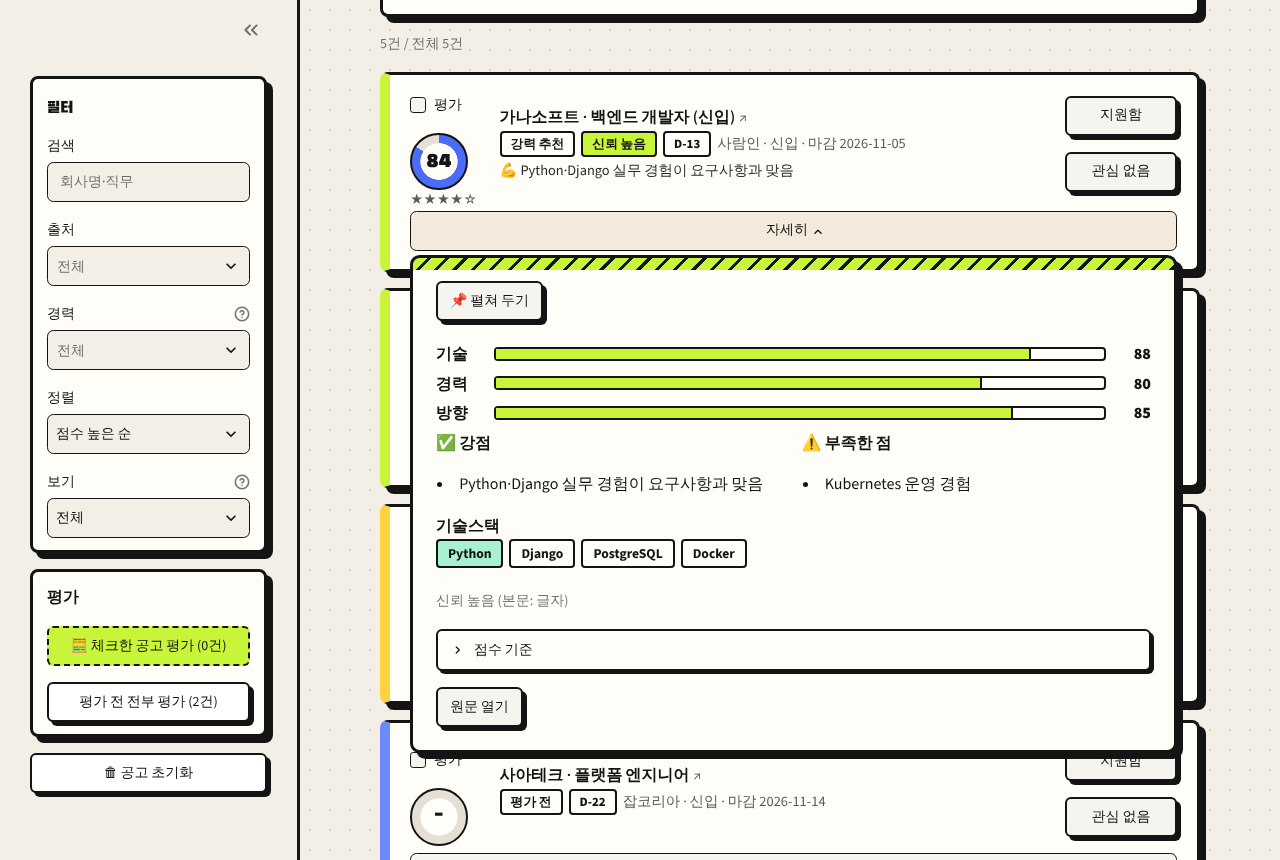
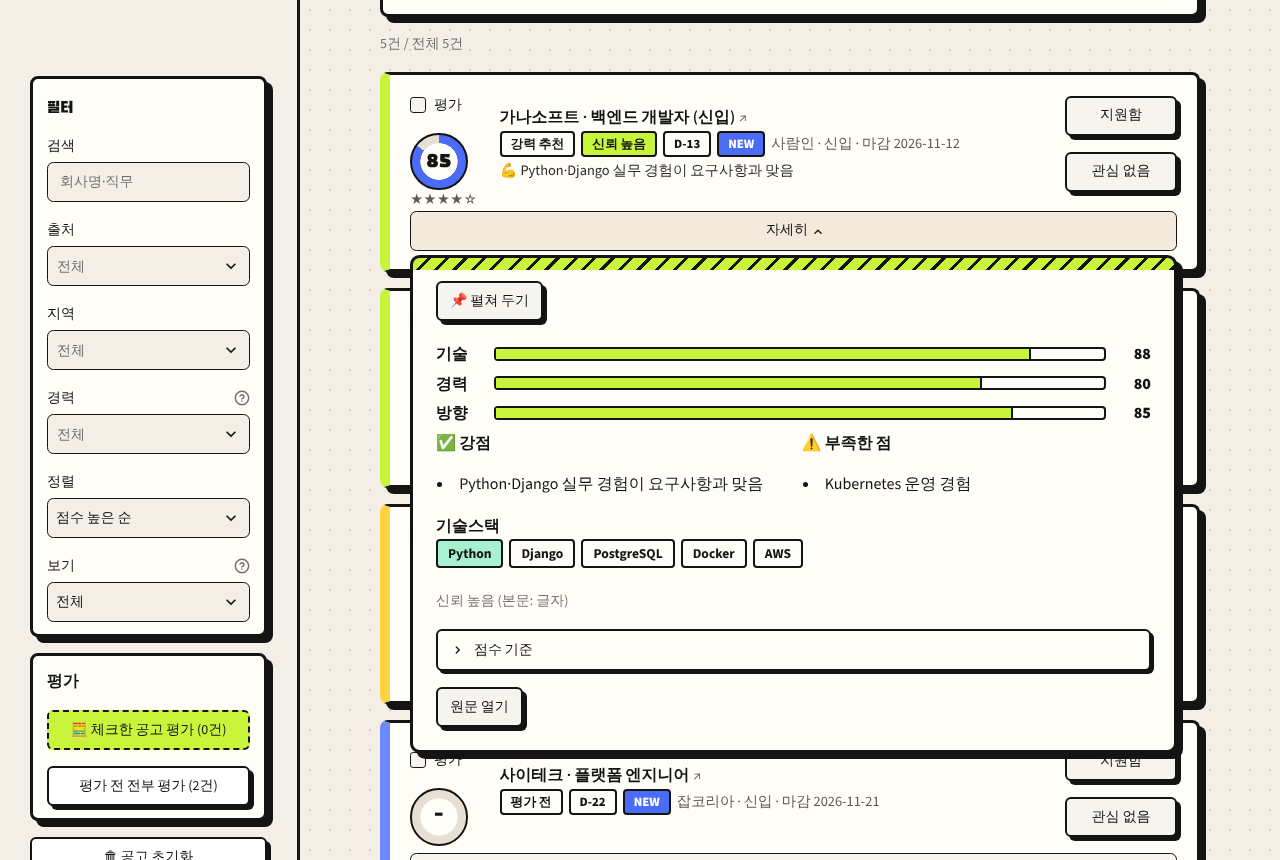
docs: README v0.7.5–v0.7.6 반영, 화면 캡처 교체
지역 필터·공고 거르기, 수집 개수 채우기(최대 3쪽), 버전·기간 배지, 테스트 수 733, 기술적 이슈 한 줄 추가. 캡처 4장은 사이드바 지역 칸이 보이게 가짜 데이터로 다시 찍음.

Claude-Session: https://claude.ai/code/session_014vTDJmmWhT3z1N6pvJN6Pz

diff --git a/README.md b/README.md
@@ -6,8 +6,8 @@
 
 사람인·잡코리아 채용공고를 모아 내 프로필과 비교해 점수를 매기는 개인용 도구입니다.
 
-![version](https://img.shields.io/badge/version-v0.7.4-c8f03c?style=flat)
-![period](https://img.shields.io/badge/기간-2026.10.19–2026.10.23-6b8afd?style=flat)
+![version](https://img.shields.io/badge/version-v0.7.6-c8f03c?style=flat)
+![period](https://img.shields.io/badge/기간-2026.10.19–2026.10.27-6b8afd?style=flat)
 ![python](https://img.shields.io/badge/Python-3.12-3776AB?style=flat&logo=python&logoColor=white)
 ![type](https://img.shields.io/badge/개인_프로젝트-555?style=flat)
 
@@ -28,7 +28,7 @@
 
 공고 수집은 LLM 없이 하고, 평가할 때만 LLM(기본 Gemini)을 불러 항목별 점수와 강점·부족한 점을 받습니다. 모든 데이터는 내 PC에 둡니다.
 
-- 기간: 2026.10.19–2026.10.23 (v0.1–v0.7.4)
+- 기간: 2026.10.19–2026.10.27 (v0.1–v0.7.6)
 - 형태: 개인 프로젝트. AI 코딩 에이전트(Claude Code)와 함께 요구사항 → 설계 → 구현 → 테스트 순서로 개발
 - 문서: 버전마다 요구사항·설계(UML)·테스트 결과를 [docs/](docs/README.md)에 남김
 
@@ -39,14 +39,15 @@
 | 공고 | 자세히 |
 | :---: | :---: |
 | <img src="docs/images/1-postings.png" width="420"/> | <img src="docs/images/2-detail.png" width="420"/> |
-| 수집 조건, 요약 칸, 사이드바 필터 | 항목별 점수, 강점·부족한 점, 기술스택 |
+| 수집 조건, 요약 칸, 사이드바 필터(지역 고르기) | 항목별 점수, 강점·부족한 점, 기술스택 |
 | **프로필** | **기술 모아보기** |
 | <img src="docs/images/3-profile.png" width="420"/> | <img src="docs/images/4-stats.png" width="420"/> |
 | 점수 항목별 입력, 이력서로 채우기 | 많이 찾는 기술, 내가 부족한 것 순위 |
 
 ## ◆ 주요 기능
 
-- 🔎 **공고 모으기**: 키워드·지역·직무·경력으로 두 사이트 공개 페이지를 모으고, 같은 공고는 한 번만 저장합니다.
+- 🔎 **공고 모으기**: 키워드·지역·직무·경력으로 두 사이트 공개 페이지를 모으고, 같은 공고는 한 번만 저장합니다. 이미 저장한 공고는 개수에 넣지 않고, 모자라면 검색 결과 다음 쪽(사이트당 최대 3쪽)에서 채웁니다.
+- 🗂 **공고 거르기**: 사이드바에서 검색·출처·지역(시·도 묶음)·경력·보기로 거르고, 점수순이나 마감 임박 순으로 정렬합니다.
 - 📊 **점수와 이유**: 기술·경력·문화·커리어 방향 점수(0–100), 종합점수, 판정(강력 추천–비추천), 강점과 부족한 점을 카드로 봅니다.
 - 📚 **공부할 기술**: 기술 모아보기에서 지금 목록이 많이 찾는 기술과 내가 부족한 것 순위를 봅니다.
 - ✉ **메일로 받기**: 고른 공고를 한 번에 30건까지 내 메일로 보냅니다(Gmail 앱 비밀번호).
@@ -113,7 +114,8 @@ flowchart LR
 - **본문이 이미지인데 이미지 서버가 robots.txt로 막힘** → 우회하지 않고 받지 않음. 사용자가 직접 저장한 이미지를 카드에 넣으면 로컬 OCR로 읽고 그 공고만 다시 평가함. ([v0.4 설계](docs/v0.4/02-design.md), [v0.5 설계](docs/v0.5/02-design.md#이미지-직접-넣기-f37f46))
 - **반 사람들이 각자 키를 넣어 써야 함** → 키는 화면에서 넣어 PC 안 파일(권한 600)에만 두고, 화면에는 끝 4자리만, 오류 문구에 키 글자가 섞이면 가림. ([v0.6 설계](docs/v0.6/02-design.md))
 - **화면 일부만 다시 그릴 때 테마가 사라짐** → Streamlit magic이 식 한 줄의 값(None)을 그린 것이 원인. if 문으로 고치고 같은 실수를 테스트로 막음. ([v0.6.2 설계](docs/v0.6.2/02-design.md))
-- **AI 에이전트와 일관되게 개발하기** → 규칙(CLAUDE.md)·테스트(686개, 외부 API 없음)·린트·CI·비밀정보 검사로 강제함. ([하네스](docs/harness.md))
+- **같은 조건으로 다시 모으면 새 공고가 안 들어옴** → 첫 쪽에서 개수만큼 자른 뒤 중복을 빼서 이미 있는 공고가 자리를 채웠음. 중복을 먼저 빼고 모자라면 다음 쪽을 읽게 바꿈. 요청 수가 늘지 않게 사이트당 3쪽까지만, 간격·robots 규칙은 그대로. ([v0.7.6 설계](docs/v0.7.6/02-design.md))
+- **AI 에이전트와 일관되게 개발하기** → 규칙(CLAUDE.md)·테스트(733개, 외부 API 없음)·린트·CI·비밀정보 검사로 강제함. ([하네스](docs/harness.md))
 
 ## ◆ 설정과 주의사항
 
@@ -137,7 +139,7 @@ flowchart LR
 ### 주의사항
 
 - **개인 사용만**: 두 사이트 약관은 동의 없는 복제·제3자 제공·영리 이용을 금지합니다. 수집한 공고를 공유·공개하지 마세요.
-- 수집은 robots.txt를 지키고 요청 사이에 3초를 쉽니다. 사이트가 막으면(403·429) 멈춥니다.
+- 수집은 robots.txt를 지키고 요청 사이에 3초를 쉽니다. 검색 결과는 사이트당 최대 3쪽까지 읽고, 사이트가 막으면(403·429) 멈춥니다.
 - 본문이 이미지뿐인 공고는 OCR(선택 설치, 약 560MB)이 있어야 읽습니다. 없으면 이미지를 직접 넣거나 본문 없이 평가합니다(종합점수 최대 69).
 - Windows·Intel PC를 기준으로 만들었습니다. Mac(Apple Silicon)은 확인하지 않았습니다.
 
